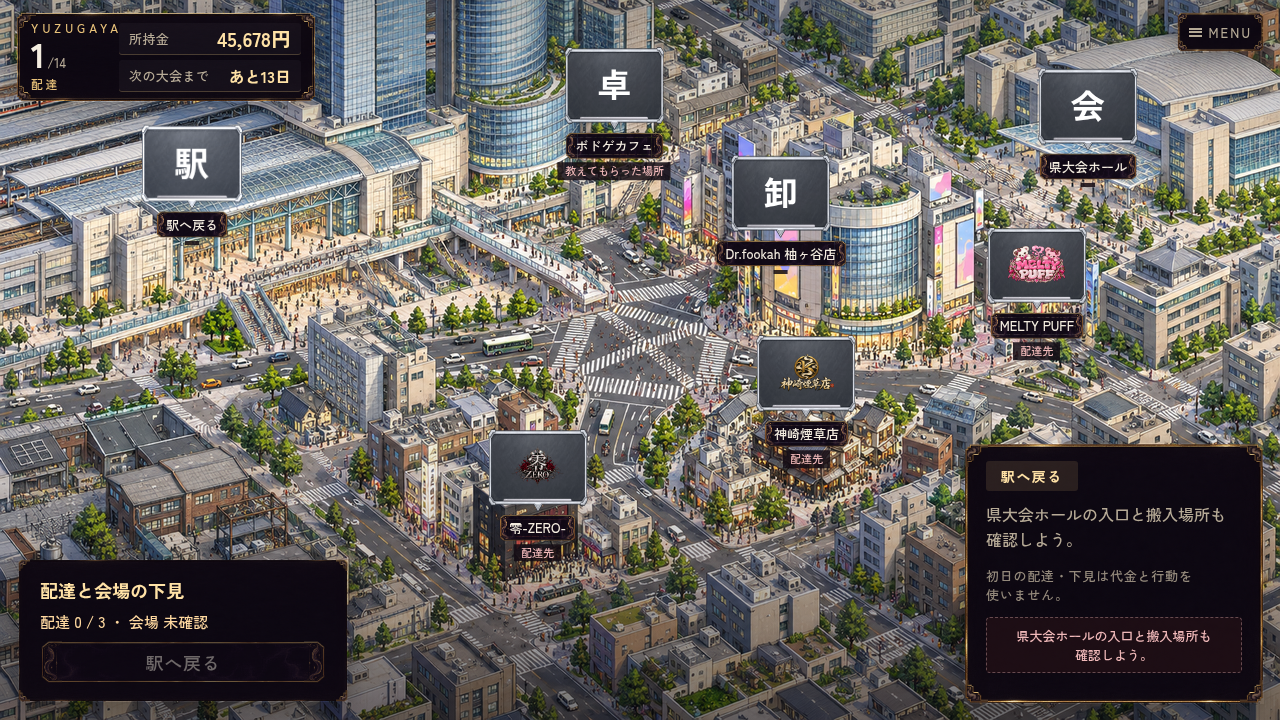
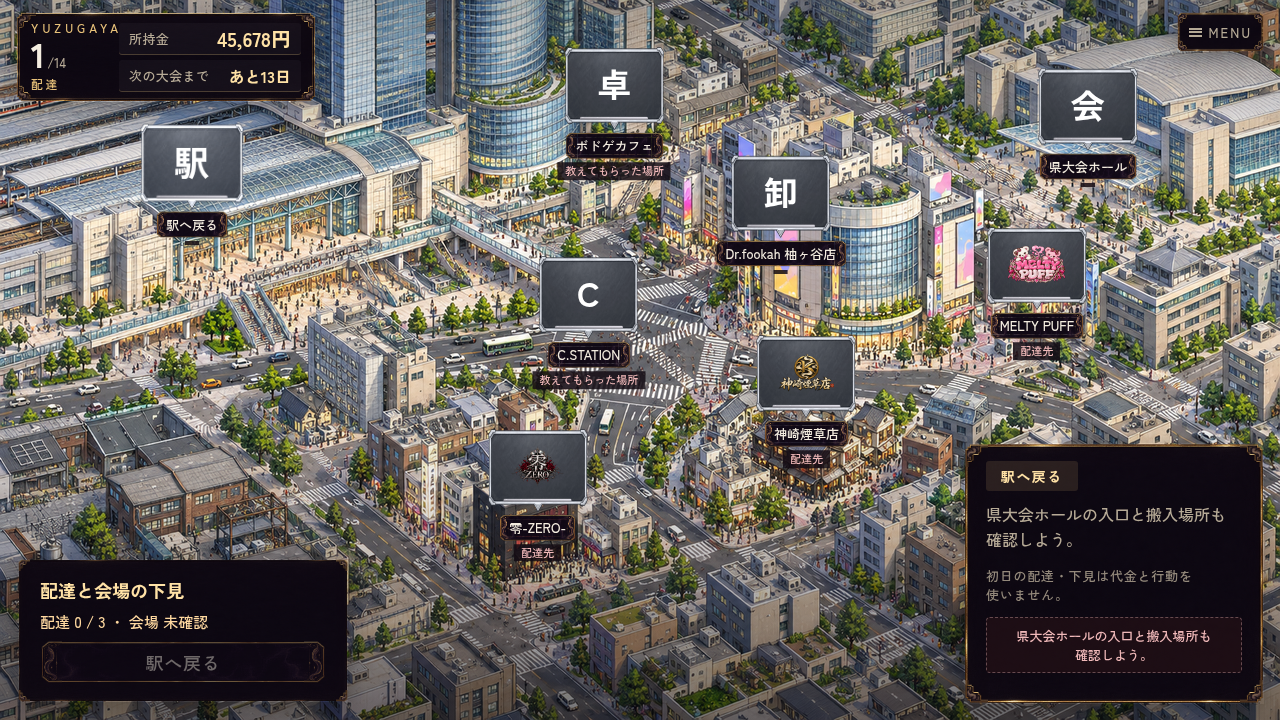
test(ch2): cover commute choices and preserve existing chapter-one fixtures (#921)

Changed region(s): [[0.4062, 0.3361, 0.5312, 0.55], [0.0938, 0.1528, 0.1875, 0.1833], [0.125, 0.2139, 0.1562, 0.2444]]

diff --git a/remake/css/ch2-preview.css b/remake/css/ch2-preview.css
@@ -176,3 +176,4 @@ body.game-ds.ch2-main .ch2-actions .btn { min-width: 0; min-height: 44px; font-s
 body.game-ds.ch2-main .ch2-map-main .spot-pin { flex-direction: row; }
 body.game-ds.ch2-main .ch2-map-main .spot-pin { display: grid; grid-template-columns: 36px minmax(0, 1fr); grid-template-rows: auto auto; min-height: 92px; height: auto; gap: 4px; }
 body.game-ds.ch2-main .ch2-map-main .spot-pin .pin-status { grid-column: 1 / -1; }
+.map .spot-pin[data-test^="pin-ch2_"] .evt-badge { top: 4px; right: 4px; }
